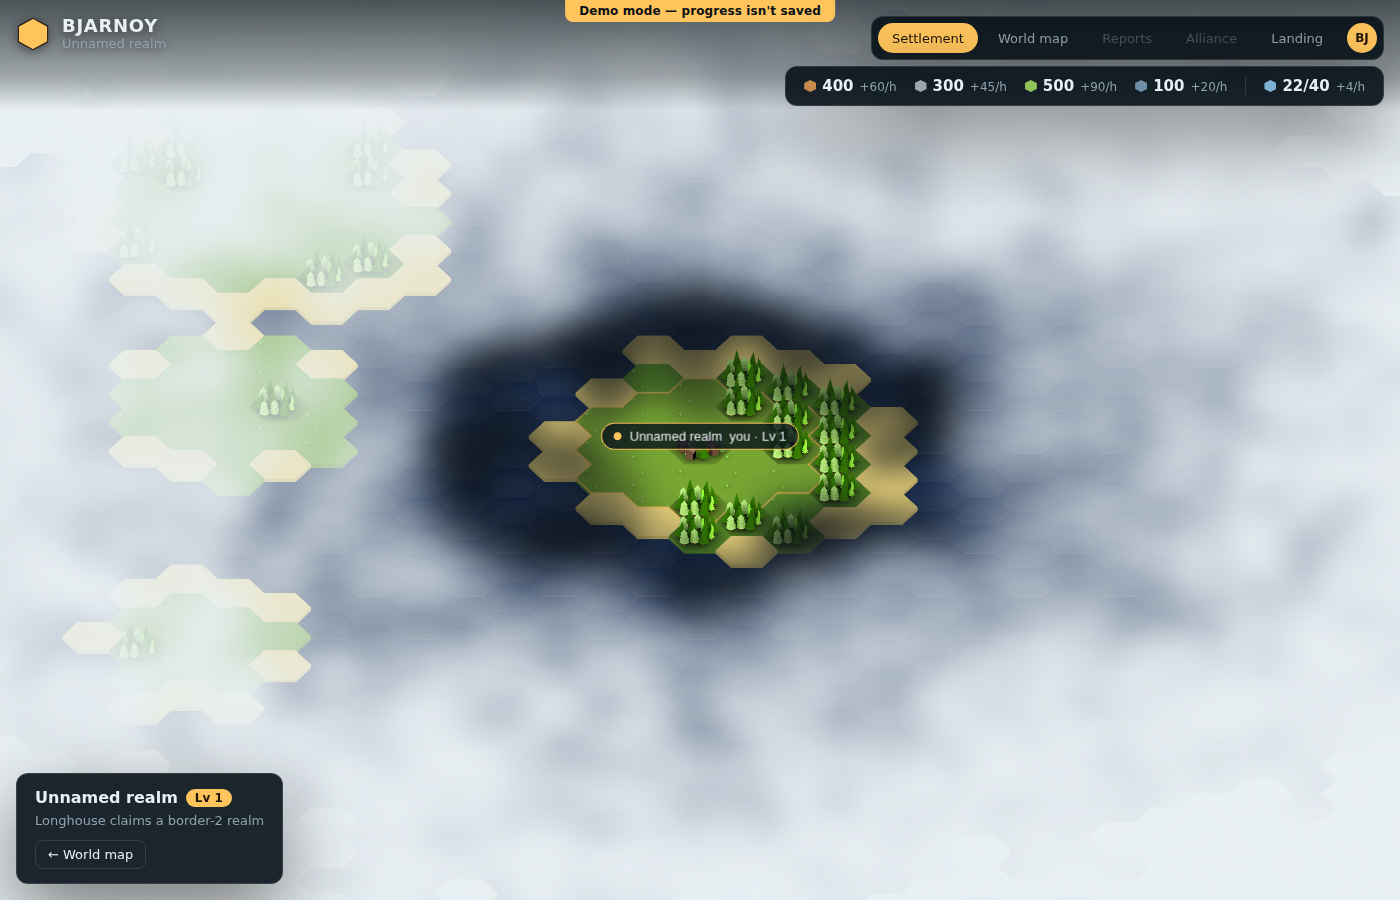
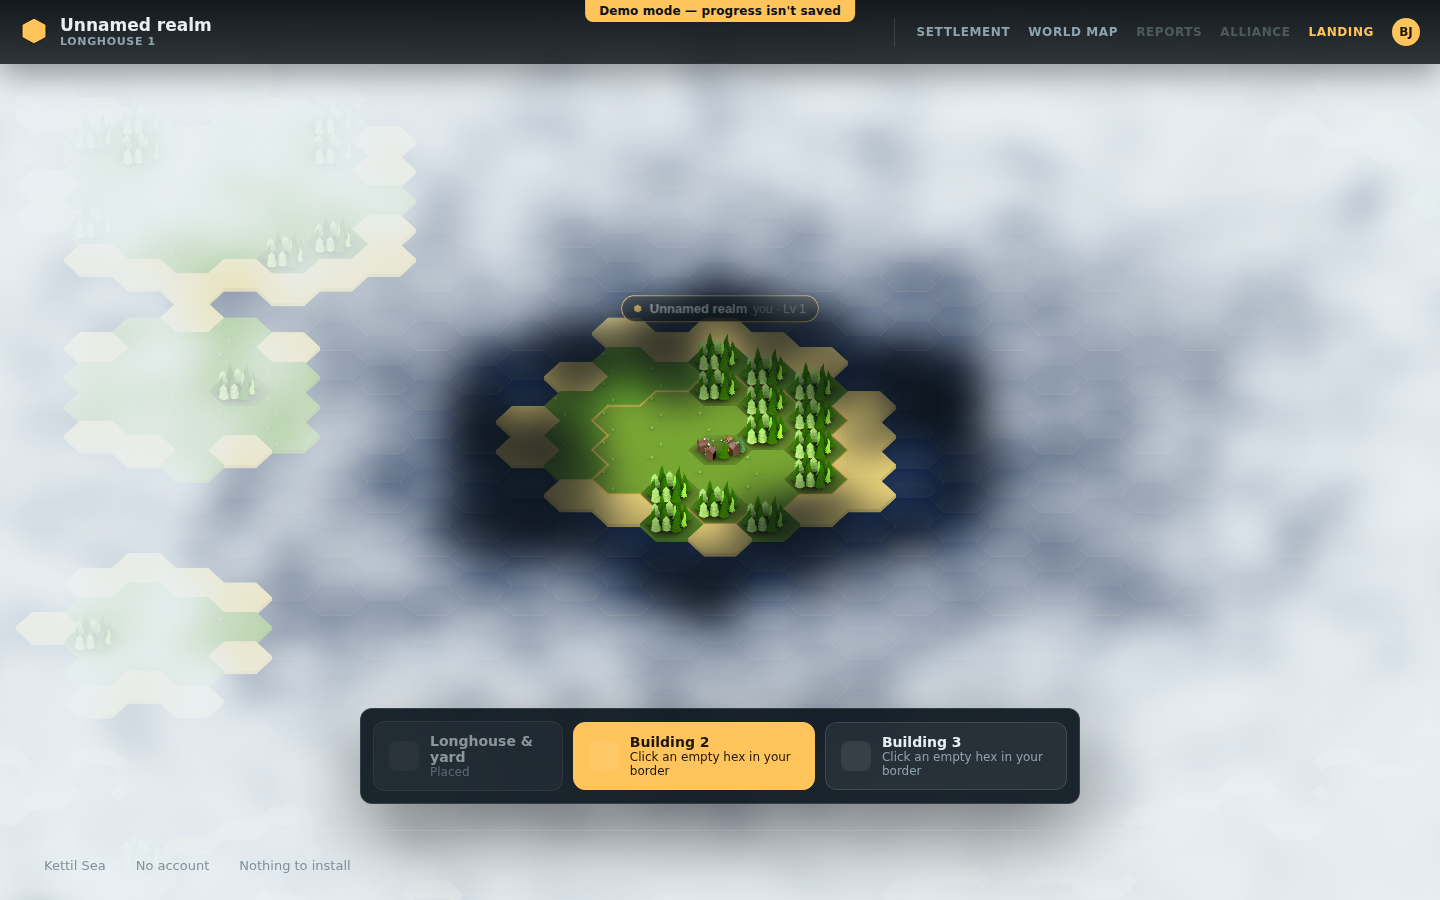
fix: settlement badge floats above the whole settlement with a hex marker
The badge was still anchored to the longhouse's own tile — the middle
of the claimed hex cluster — instead of the settlement's northmost
tile, and its leading dot was a plain circle instead of a hex like the
reference mockup. Anchor now scans every hex the settlement owns for
the highest tile's art ceiling (not just its flat-top vertex, so it
clears neighboring forest tiles' treetops too), and the dot is drawn
as a small hexagon via a new hexPoints() helper.

diff --git a/src/frontend/src/lib/map/HexMapRenderer.ts b/src/frontend/src/lib/map/HexMapRenderer.ts
@@ -265,6 +265,23 @@ const TILE_TOPFACE_Y_OFFSET = TILE_W * TILE_ART_TOPFACE_Y_FRAC;
 // on/over, on the far edge of (or past) the tile's own front face.
 const TILE_CENTER_Y_OFFSET = TILE_H / 2;
 
+/**
+ * A small pointy-top regular hexagon centred at (cx, cy) with "radius" r
+ * (centre-to-vertex) — the same six-vertex shape as TopBar's inline-SVG hex
+ * logo (`polygon points="50,4 93,27 93,73 50,96 7,73 7,27"`), not the
+ * isometric tile's own flattened diamond top-face. Used for small HUD
+ * markers (the settlement badge's icon) that should read as "a hex", not as
+ * a scaled-down tile.
+ */
+function hexPoints(cx: number, cy: number, r: number): number[] {
+  const points: number[] = [];
+  for (let i = 0; i < 6; i++) {
+    const angle = (Math.PI / 180) * (-90 + 60 * i);
+    points.push(cx + r * Math.cos(angle), cy + r * Math.sin(angle));
+  }
+  return points;
+}
+
 const WORLD_DEFAULT_ZOOM = 0.22;
 // Ceiling for the settlement camera's initial zoom — settlement level 1's
 // explored radius is ~5 hexes, which at 0.85 filled almost the entire
@@ -1684,7 +1701,26 @@ export class HexMapRenderer {
       // Don't reveal a rival's name over ground you haven't scouted.
       if (!worldModel.isExplored(settlement.q, settlement.r)) continue;
       const grid = isoGridPosition({ q: settlement.q, r: settlement.r }, TILE_W, TILE_H);
-      const top = this.toScreen({ x: grid.x + TILE_W / 2, y: grid.y + TILE_CENTER_Y_OFFSET });
+      // Issue #16 follow-up: the badge floated above the longhouse's own
+      // tile, which sits in the *middle* of the settlement's claimed hexes,
+      // not its northmost edge — the reference has it clear above the whole
+      // cluster instead. Same footprint-scanning approach section 6 uses for
+      // world-map island labels (there: lowest tile-bottom vertex; here:
+      // highest tile-top vertex), scanned over the settlement's owned disc
+      // rather than a flood fill since claimed tiles are already exactly
+      // that disc (`foundSettlement`/`claimTile`).
+      // Measured against each tile's own *art* top edge (grid.y -
+      // TILE_TOPFACE_Y_OFFSET — the same offset `rebuildTerrain` places
+      // building/tree sprites at, see its comment above), not just its flat
+      // top-face vertex: a bare topmost tile's vertex sits well below a
+      // taller forest tile's treetops one row south of it, so anchoring on
+      // the vertex alone left the badge overlapping the trees beneath it.
+      let topWorldY = grid.y - TILE_TOPFACE_Y_OFFSET; // this hex's own art ceiling
+      for (const c of hexesInRadius({ q: settlement.q, r: settlement.r }, worldModel.borderRadius(settlement))) {
+        const tileGrid = isoGridPosition(c, TILE_W, TILE_H);
+        topWorldY = Math.min(topWorldY, tileGrid.y - TILE_TOPFACE_Y_OFFSET);
+      }
+      const top = this.toScreen({ x: grid.x + TILE_W / 2, y: topWorldY });
       const mine = settlement.ownerId === playerId;
       const color = mine ? GOLD : RIVAL;
 
@@ -1730,13 +1766,20 @@ export class HexMapRenderer {
       const pillH = 26 * zoomScale;
       const pillW = padX * 2 + dotR * 2 + gap + nameLabel.width + nameGap + suffixLabel.width;
       const pillX = top.x - pillW / 2;
-      const pillY = top.y - 30 * zoomScale - pillH;
+      // `top` is already clear of every claimed tile's tallest possible art
+      // (see above), so this only needs a small breathing-room margin.
+      const pillY = top.y - 10 * zoomScale - pillH;
 
       this.markerLayer
         .roundRect(pillX, pillY, pillW, pillH, pillH / 2)
         .fill({ color: 0x08121a, alpha: 0.8 })
         .stroke({ width: 1, color, alpha: 0.9 });
-      this.markerLayer.circle(pillX + padX + dotR, pillY + pillH / 2, dotR).fill({ color });
+      // Reference mockup: a small hex (not a round dot), matching the same
+      // pointy-top hexagon TopBar's logo badge and ResourceBar's icons use
+      // elsewhere in the HUD, not the isometric tile's own hex shape.
+      this.markerLayer
+        .poly(hexPoints(pillX + padX + dotR, pillY + pillH / 2, dotR))
+        .fill({ color });
       nameLabel.position.set(pillX + padX + dotR * 2 + gap, pillY + pillH / 2);
       suffixLabel.position.set(nameLabel.x + nameLabel.width + nameGap, pillY + pillH / 2);
       nameLabel.visible = true;

diff --git a/docs/design/hud-alignment.md b/docs/design/hud-alignment.md
@@ -335,11 +335,15 @@ face rather than the flat top-face's own center, so the badge sat low enough to 
 longhouse instead of floating cleanly above it (see section 2's shared root-cause writeup). Fixed by the
 same `TILE_CENTER_Y_OFFSET` swap.
 
-**Files:** `lib/map/HexMapRenderer.ts` (`rebuildSettlementLabels`).
+**Correction after further review — badge should float above the whole settlement, not just the longhouse tile, and its dot should read as a hex:** comparing a fresh screenshot against the reference again (a Bjørnstad "Lv 4" mockup) found two more gaps. (1) The badge was still anchored to the settlement's own single tile (the longhouse), which sits in the *middle* of the claimed hex cluster — the reference has it clear above the entire settlement, floating over its northmost tile, not hovering over the longhouse roof specifically. (2) The small leading dot was a plain circle; the reference shows a small hex.
 
-**Verified:** yes.
+Fixed both in `rebuildSettlementLabels`: (1) the anchor now scans every hex the settlement owns (`hexesInRadius(settlement, worldModel.borderRadius(settlement))` — the same disc `foundSettlement`/`claimTile` fill, so it's exactly the claimed footprint, no flood-fill needed) for the highest tile's own art ceiling (`grid.y - TILE_TOPFACE_Y_OFFSET`, the same offset `rebuildTerrain` places building/tree sprites at — not just the tile's flat-top vertex, since a bare topmost tile's vertex still sits below a taller forest tile's treetops one row south of it) and takes the minimum, so the badge clears every claimed tile's art regardless of which tile is actually tallest. (2) the leading dot is now a small pointy-top hexagon (`hexPoints()`, a new helper — same six-vertex shape as `TopBar`'s inline-SVG hex logo) drawn with `Graphics.poly()` instead of `Graphics.circle()`.
 
-![settlement badge reading "Unnamed realm you · Lv 1"](img/settlement_badge.png)
+**Files:** `lib/map/HexMapRenderer.ts` (`rebuildSettlementLabels`, new `hexPoints` helper).
+
+**Verified:** yes, against a fresh Playwright screenshot (demo mode, `npm run dev`) after the fix — the badge now floats clear above the settlement's topmost tiles instead of overlapping the trees below it, and the leading marker is visibly hexagonal rather than round at typical zoom.
+
+![settlement badge reading "Unnamed realm you · Lv 1", floating above the settlement's northmost tiles with a hex marker](img/settlement_badge.png)
 
 ---
 
